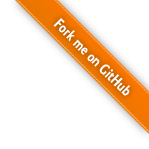
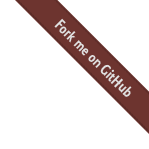
fixing the ribbon and code snippets

Changed region(s): [[0.1074, 0.0, 1.0, 0.9128]]

diff --git a/_layouts/default.html b/_layouts/default.html
@@ -17,7 +17,7 @@
       _gaq.push(['_setAccount', 'UA-26227397-1']);
       _gaq.push(['_setDomainName', 'testingwithfrank.com']);
       _gaq.push(['_trackPageview']);
-      
+
       (function() {
       var ga = document.createElement('script'); ga.type =
       'text/javascript'; ga.async = true;
@@ -31,6 +31,7 @@
   <body>
     <div id='wrap'>
       <div id='header'>
+        <a href="http://github.com/moredip/Frank"><img id="forkme" src="/images/fork_me2.png"/></a>
         <img id="frankLogo" src="/images/frank.png"/>
         Testing With Frank
 
@@ -52,7 +53,7 @@
               <li><a href='presentations.html'>Presentations</a></li>
               <li><a href='screencasts.html'>Screencasts</a></li>
               <li><a href='faq.html'>FAQ</a></li>
-              <li><a href='frankly.html'>Wire Protocol (Frankly)</a></li>              
+              <li><a href='frankly.html'>Wire Protocol (Frankly)</a></li>
             </ol>
           </li>
           <li>Get Involved
@@ -70,8 +71,7 @@
 
       <div id='footer'>
         <a href="http://www.thoughtworks.com/"><img id="TWLogo" src="/images/TWLogo.png"/></a>
-        <a href="http://github.com/moredip/Frank"><img id="githubLogo" src="/images/fork_me.png"/></a>
-        
+
       </div>
     </div>
   </body>
